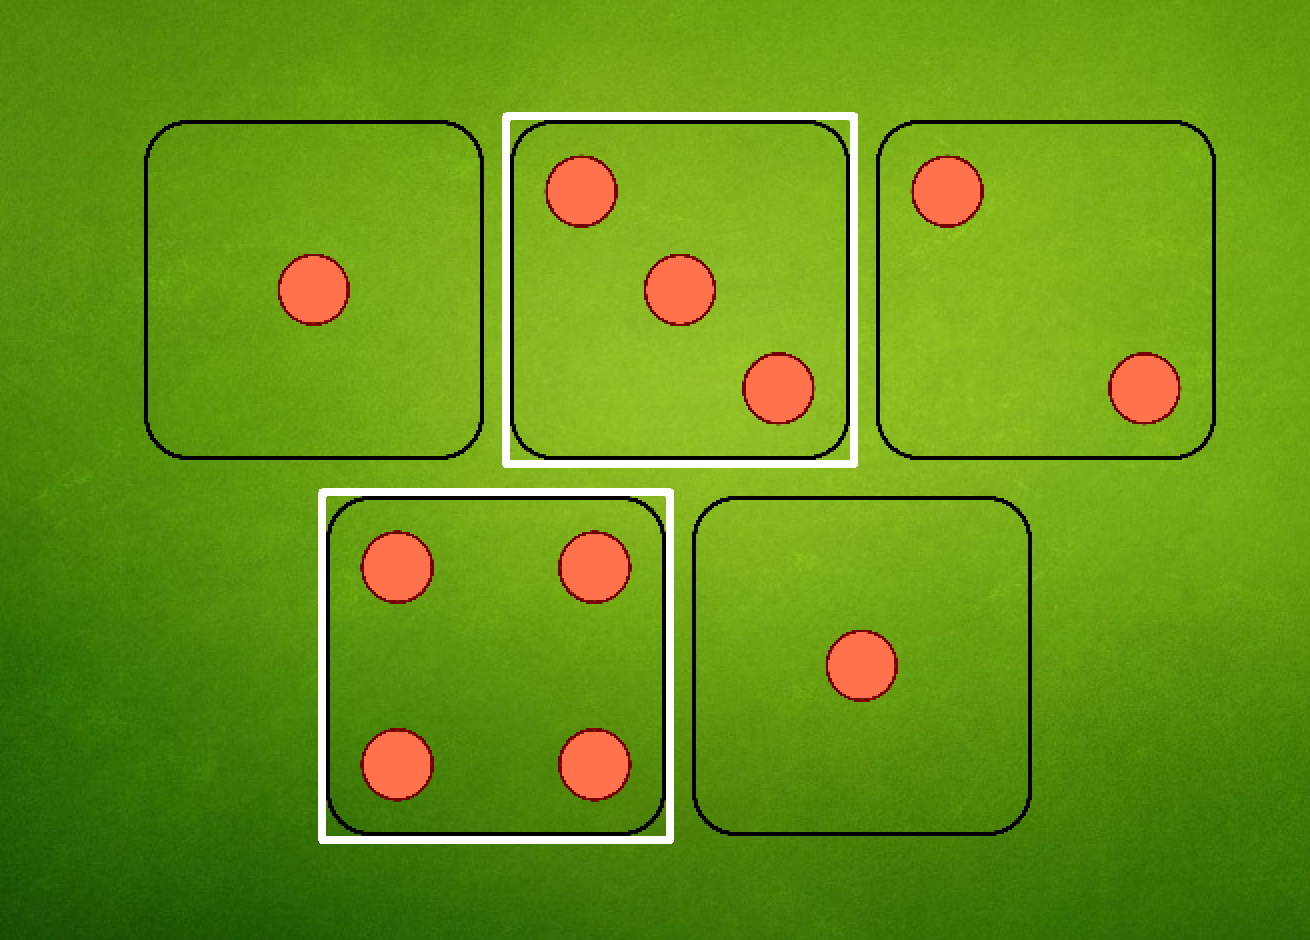
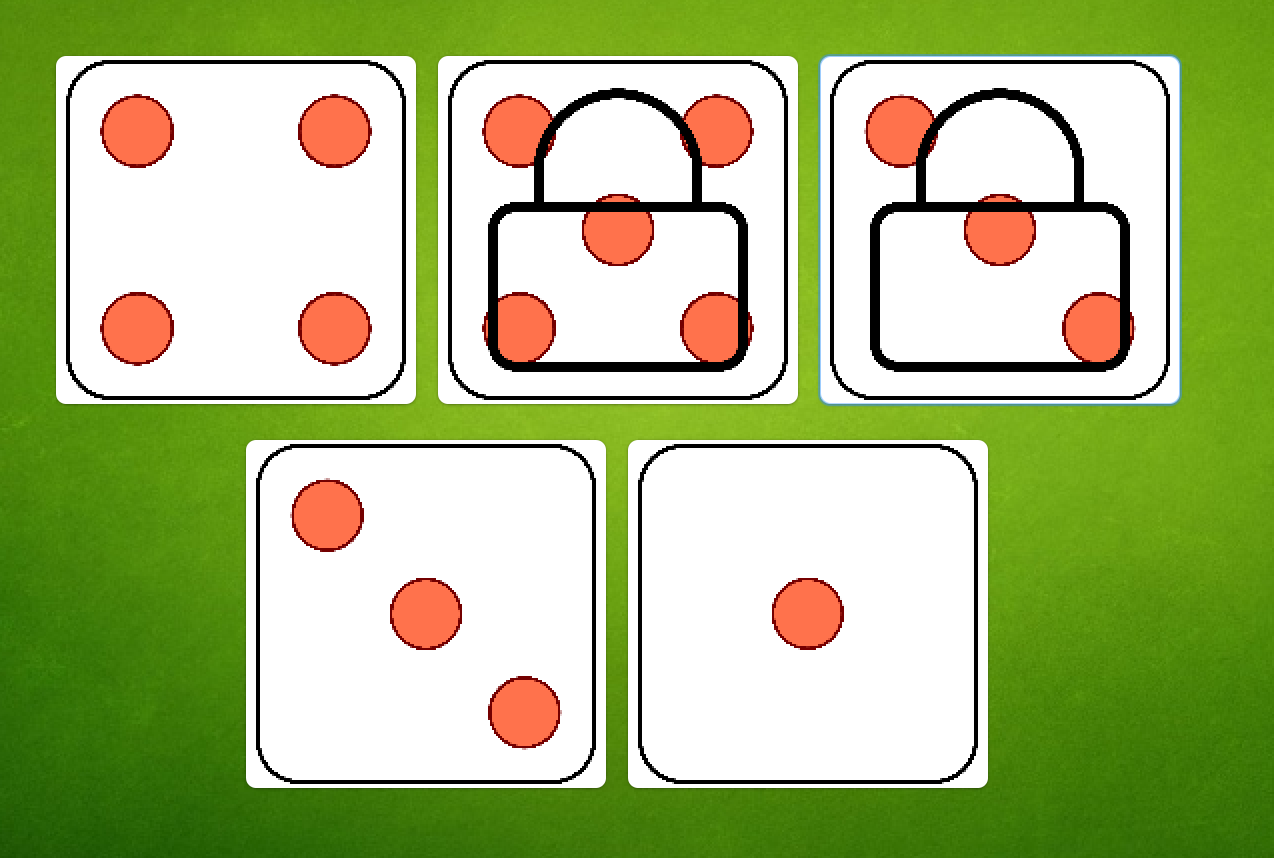
Added dice images with lock displayed on top of dice. Modfiied dice model button action listener to change button image instead of displaying a border. Updated lockDice.png for README.md.

diff --git a/DiceModel.java b/DiceModel.java
@@ -6,12 +6,10 @@ import java.net.URL;
 
 import java.awt.event.ActionEvent;
 import java.awt.event.ActionListener;
-import java.awt.Color;
 import java.awt.Image;
 
 import javax.swing.ImageIcon;
 import javax.swing.JButton;
-import javax.swing.border.LineBorder;
 
 public class DiceModel extends JButton {
    private static final int SCALE_VALUE = 170;
@@ -23,20 +21,30 @@ public class DiceModel extends JButton {
       Image img = new ImageIcon(url).getImage().getScaledInstance(SCALE_VALUE, SCALE_VALUE, Image.SCALE_DEFAULT);
       ImageIcon defaultIcon = new ImageIcon(img);
       setIcon(defaultIcon);
-      setBorder(new LineBorder(Color.WHITE, 4, true));
-      setBorderPainted(selected);
+      setOpaque(false);
       addActionListener(new ActionListener() {
          @Override
          public void actionPerformed(ActionEvent e) {
             selected = !selected;
-            setBorderPainted(selected);
+            URL url;
+            if (selected) {
+               url = this.getClass().getResource(Constants.BASE_IMAGE_PATH + "Dice-" + value + "-locked.png");
+            } else {
+               url = this.getClass().getResource(Constants.BASE_IMAGE_PATH + "Dice-" + value + ".png");
+            }
+            Image img = new ImageIcon(url).getImage().getScaledInstance(SCALE_VALUE, SCALE_VALUE, Image.SCALE_DEFAULT);
+            ImageIcon newIcon = new ImageIcon(img);
+            setIcon(newIcon);
          }  
       });
    }
 
    public void reset() {
       selected = false;
-      setBorderPainted(selected);
+      URL url = this.getClass().getResource(Constants.BASE_IMAGE_PATH + "Dice-" + value + ".png");
+      Image img = new ImageIcon(url).getImage().getScaledInstance(SCALE_VALUE, SCALE_VALUE, Image.SCALE_DEFAULT);
+      ImageIcon newIcon = new ImageIcon(img);
+      setIcon(newIcon);
    }
 
    public boolean isSelected() {
